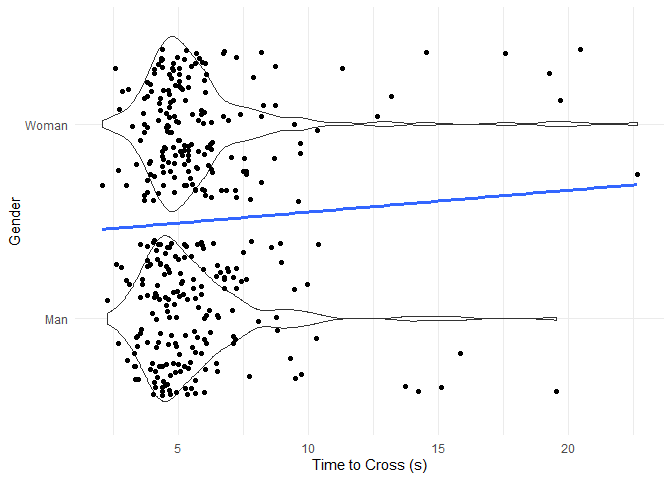
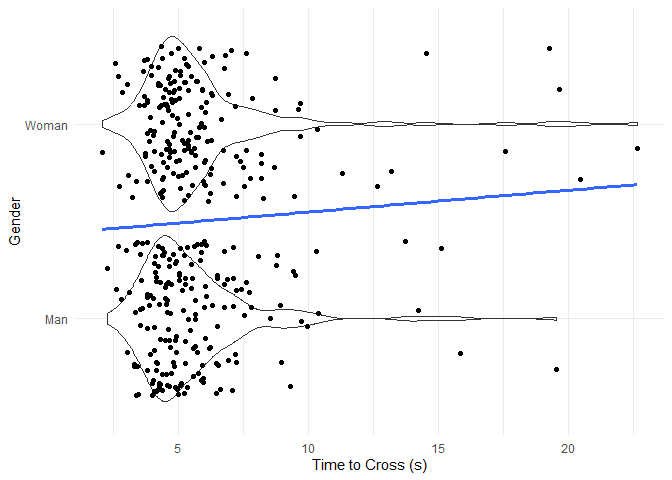
commit from rstudio

diff --git a/racial_bias_analysis.md b/racial_bias_analysis.md
@@ -620,6 +620,7 @@ tbl1 <- tbl_regression(
     gender ~ "Gender",
     "factor(location)" ~ "Intersection Location"
   )) %>% 
+  modify_column_hide(columns = p.value) %>% 
   modify_table_body(
     ~.x %>% 
       mutate(
@@ -639,7 +640,8 @@ tbl2 <- tbl_regression(
   label = list(
     ethnicity ~ "Racialization",
     "factor(location)" ~ "Intersection Location"
-  )) %>% 
+  )) %>%
+  modify_column_hide(columns = p.value) %>%
   modify_table_body(
     ~.x %>% 
       mutate(
@@ -662,6 +664,7 @@ tbl3 <- tbl_regression(
     "factor(location)" ~ "Intersection Location",
     ethnicity ~ "Racialization"
   )) %>% 
+  modify_column_hide(columns = p.value) %>%
   modify_table_body(
     ~.x %>% 
       mutate(
@@ -686,6 +689,7 @@ tbl4 <- tbl_regression(
     "factor(location)" ~ "Intersection Location",
     ethnicity ~ "Racialization"
   )) %>% 
+  modify_column_hide(columns = p.value) %>%
   modify_table_body(
     ~.x %>% 
       mutate(
@@ -1038,6 +1042,7 @@ tbl5 <- tbl_regression(
   )%>%
   modify_column_unhide(columns = std.error) %>% 
   modify_column_hide(columns = conf.low) %>% 
+  modify_column_hide(columns = p.value) %>%
   modify_table_body(
     ~.x %>% 
       mutate(
@@ -1061,6 +1066,7 @@ tbl6 <- tbl_regression(
   )) %>% 
   modify_column_unhide(columns = std.error) %>% 
   modify_column_hide(columns = conf.low) %>%
+  modify_column_hide(columns = p.value) %>%
   modify_table_body(
     ~.x %>% 
       mutate(
@@ -1086,6 +1092,7 @@ tbl7 <- tbl_regression(
   )) %>% 
   modify_column_unhide(columns = std.error) %>% 
   modify_column_hide(columns = conf.low) %>% 
+  modify_column_hide(columns = p.value) %>%
   modify_table_body(
     ~.x %>% 
       mutate(
@@ -1113,6 +1120,7 @@ tbl8 <- tbl_regression(
   )) %>% 
   modify_column_unhide(columns = std.error) %>% 
   modify_column_hide(columns = conf.low) %>% 
+  modify_column_hide(columns = p.value) %>%
   modify_table_body(
     ~.x %>% 
       mutate(
@@ -1484,6 +1492,7 @@ tbl9 <- tbl_regression(
   )%>%
   modify_column_unhide(columns = std.error) %>% 
   modify_column_hide(columns = conf.low) %>% 
+  modify_column_hide(columns = p.value) %>%
   modify_table_body(
     ~.x %>% 
       mutate(
@@ -1507,6 +1516,7 @@ tbl10 <- tbl_regression(
   )) %>% 
   modify_column_unhide(columns = std.error) %>% 
   modify_column_hide(columns = conf.low) %>%
+  modify_column_hide(columns = p.value) %>%
   modify_table_body(
     ~.x %>% 
       mutate(
@@ -1532,6 +1542,7 @@ tbl11 <- tbl_regression(
   )) %>% 
   modify_column_unhide(columns = std.error) %>% 
   modify_column_hide(columns = conf.low) %>% 
+  modify_column_hide(columns = p.value) %>%
   modify_table_body(
     ~.x %>% 
       mutate(
@@ -1559,6 +1570,7 @@ tbl12 <- tbl_regression(
   )) %>% 
   modify_column_unhide(columns = std.error) %>% 
   modify_column_hide(columns = conf.low) %>% 
+  modify_column_hide(columns = p.value) %>%
   modify_table_body(
     ~.x %>% 
       mutate(
@@ -2051,6 +2063,7 @@ tbl13 <- tbl_regression(
     gender ~ "Gender",
     "factor(location)" ~ "Intersection Location"
   )) %>% 
+  modify_column_hide(columns = p.value) %>%
   modify_table_body(
     ~.x %>% 
       mutate(
@@ -2071,6 +2084,7 @@ tbl14 <- tbl_regression(
     ethnicity ~ "Racialization",
     "factor(location)" ~ "Intersection Location"
   )) %>% 
+  modify_column_hide(columns = p.value) %>%
   modify_table_body(
     ~.x %>% 
       mutate(
@@ -2093,6 +2107,7 @@ tbl15 <- tbl_regression(
     "factor(location)" ~ "Intersection Location",
     ethnicity ~ "Racialization"
   )) %>% 
+  modify_column_hide(columns = p.value) %>%
   modify_table_body(
     ~.x %>% 
       mutate(
@@ -2117,6 +2132,7 @@ tbl16 <- tbl_regression(
     "factor(location)" ~ "Intersection Location",
     ethnicity ~ "Racialization"
   )) %>% 
+  modify_column_hide(columns = p.value) %>%
   modify_table_body(
     ~.x %>% 
       mutate(
@@ -2612,7 +2628,8 @@ tbl17 <- tbl_regression(
   label = list(
     gender ~ "Gender",
     "factor(location)" ~ "Intersection Location"
-  )) %>% 
+  )) %>%
+  modify_column_hide(columns = p.value) %>%
   modify_table_body(
     ~.x %>% 
       mutate(
@@ -2632,7 +2649,8 @@ tbl18 <- tbl_regression(
   label = list(
     ethnicity ~ "Racialization",
     "factor(location)" ~ "Intersection Location"
-  )) %>% 
+  )) %>%
+  modify_column_hide(columns = p.value) %>%
   modify_table_body(
     ~.x %>% 
       mutate(
@@ -2655,6 +2673,7 @@ tbl19 <- tbl_regression(
     "factor(location)" ~ "Intersection Location",
     ethnicity ~ "Racialization"
   )) %>% 
+  modify_column_hide(columns = p.value) %>%
   modify_table_body(
     ~.x %>% 
       mutate(
@@ -2679,6 +2698,7 @@ tbl20 <- tbl_regression(
     "factor(location)" ~ "Intersection Location",
     ethnicity ~ "Racialization"
   )) %>% 
+  modify_column_hide(columns = p.value) %>%
   modify_table_body(
     ~.x %>% 
       mutate(
@@ -3247,12 +3267,12 @@ ggplot(or3[-1,], aes(x = estimate,
 # 11o. Intersection Plots
 
 ``` r
-p1 <- ggdraw() + draw_image("VicRender.png")
-p2 <- ggdraw() + draw_image("2ndRender.png")
-p3 <- ggdraw() + draw_image("19thRender.png")
-p4 <- ggdraw() + draw_image("BesRender.png")
+p1 <- ggdraw() + draw_image("2nd.png")
+p2 <- ggdraw() + draw_image("Vic.png")
+p4 <- ggdraw() + draw_image("19th.png")
+p3 <- ggdraw() + draw_image("Bess.png")
 
-final_plot <- plot_grid(p1,p2, p3, p4,
+final_plot <- plot_grid(p1, p2, p3, p4,
           labels = c("A", "B", "C", "D")) +
   theme( 
     plot.background = element_blank(),
